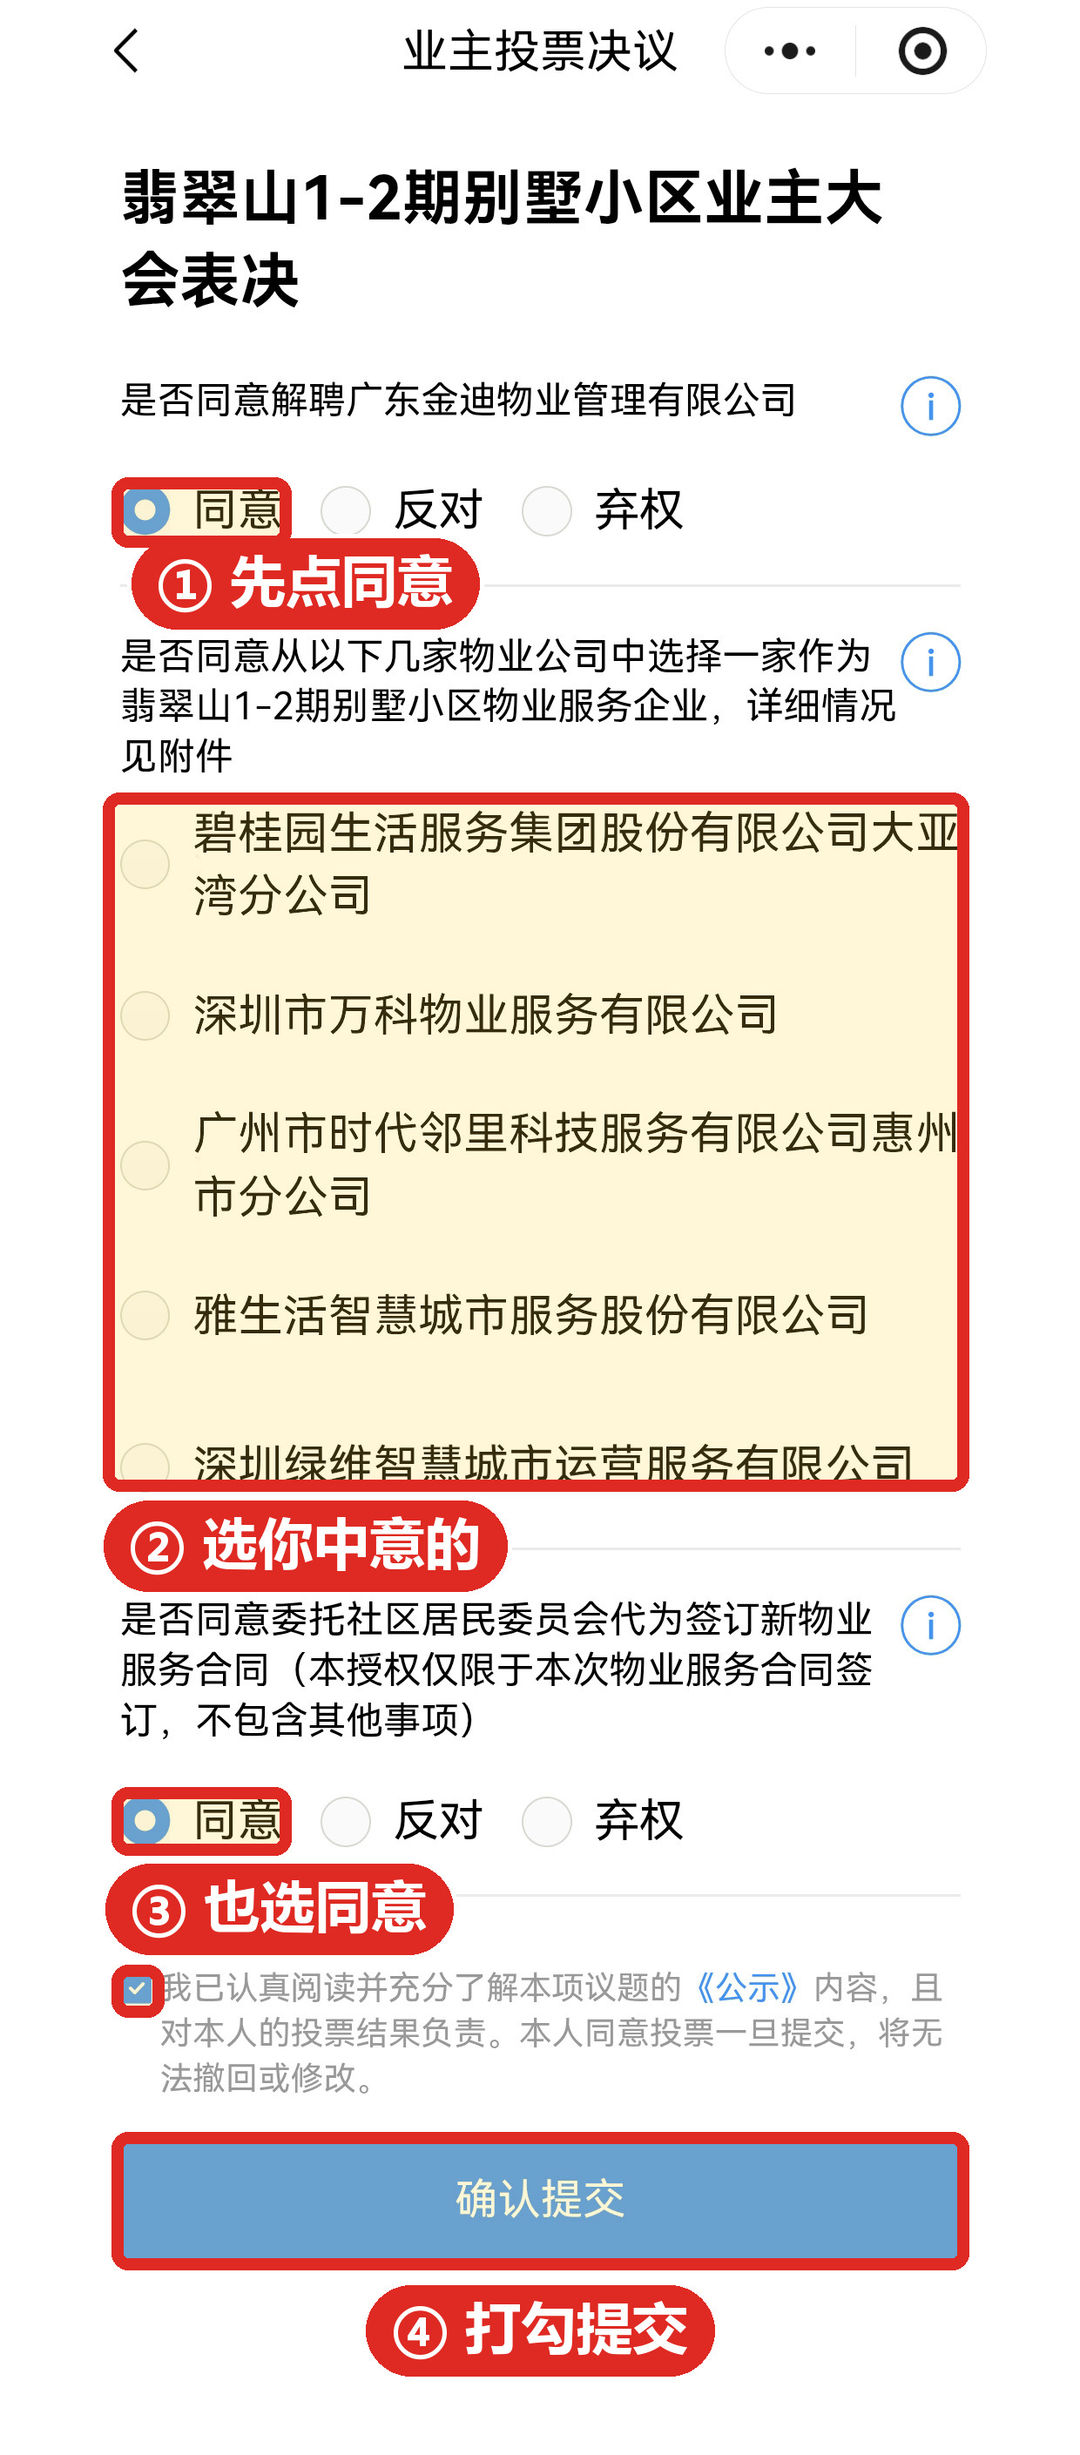
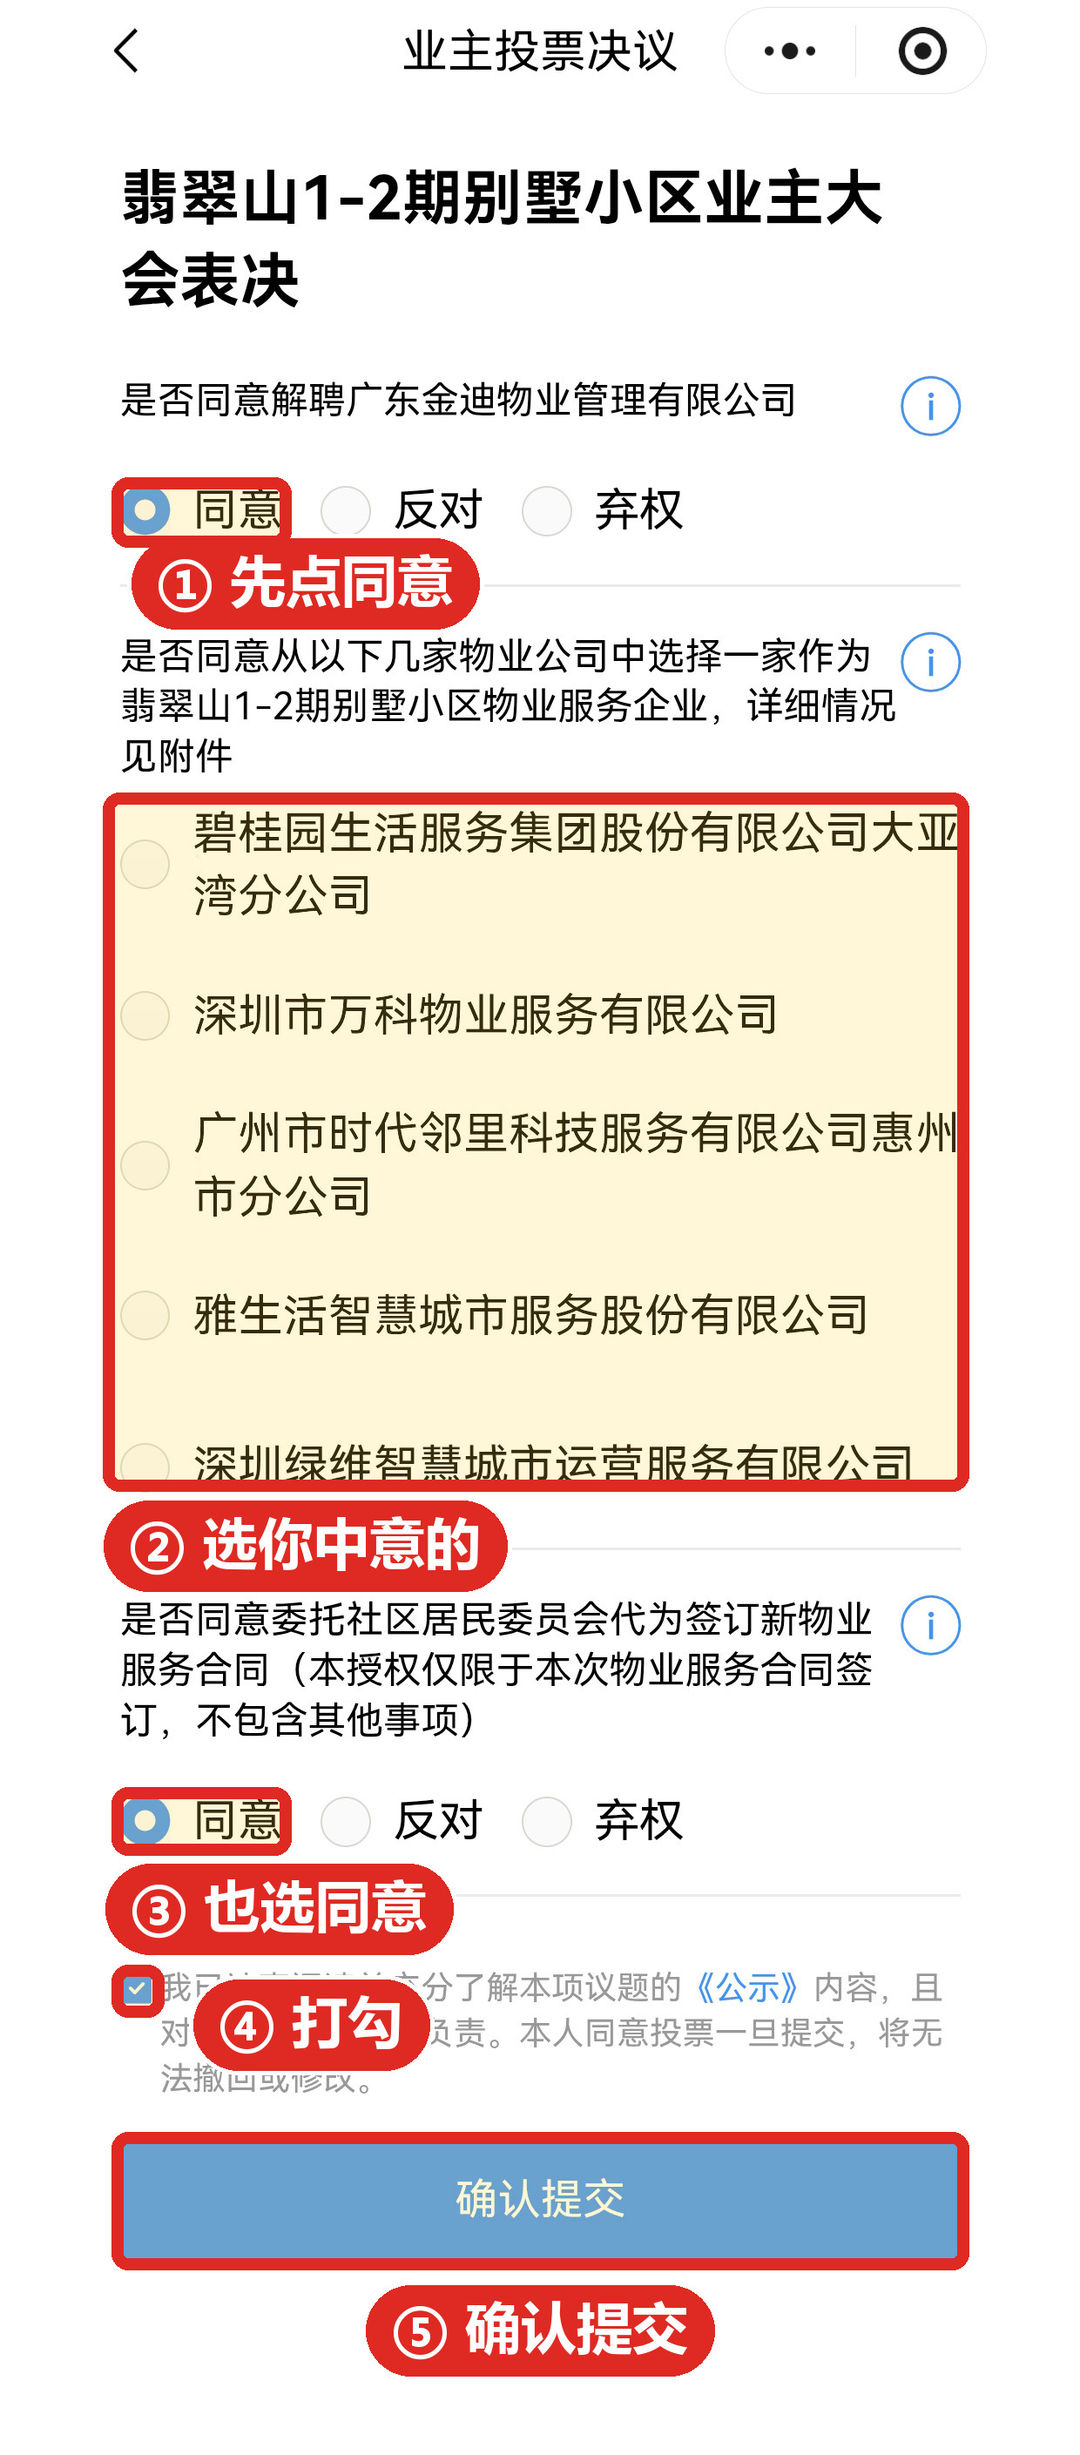
Guide v1.24: split the last two labels - tick beside the checkbox, submit under the button

Changed region(s): [[0.1833, 0.8049, 0.3972, 0.8668], [0.4278, 0.9287, 0.55, 0.9597], [0.3667, 0.9287, 0.3972, 0.9597]]

diff --git a/guide/index.html b/guide/index.html
@@ -926,12 +926,12 @@
       </div>
       <div class="shot-box">
         <picture>
-          <source type="image/webp" srcset="13_业主投票决议页_第一题先选同意.webp?v=3">
-          <img class="shot" loading="lazy" decoding="async" src="13_业主投票决议页_第一题先选同意.jpg?v=3" alt="投票表单：四个红框依次标出第一题选「同意」、第二题挑一家新物业、第三题也选「同意」，以及勾选承诺后点「确认提交」" width="1080" height="2455">
+          <source type="image/webp" srcset="13_业主投票决议页_第一题先选同意.webp?v=4">
+          <img class="shot" loading="lazy" decoding="async" src="13_业主投票决议页_第一题先选同意.jpg?v=4" alt="投票表单：五个红框依次标出第一题选「同意」、第二题挑一家新物业、第三题也选「同意」、勾选「我已认真阅读」、以及点「确认提交」" width="1080" height="2455">
         </picture>
         <span class="zoom-hint">点击放大</span>
       </div>
-      <p class="shot-note">四个红框按编号依次做：① 先选同意 ② 挑一家新物业 ③ 也选同意 ④ 打勾再提交</p>
+      <p class="shot-note">五个红框按编号依次做：① 先选同意 ② 挑一家新物业 ③ 也选同意 ④ 打勾 ⑤ 提交</p>
       <div class="notice notice--brick">
         <strong>务必先选第一题的「同意」</strong>
         只有先选了「同意」解聘，第二题（选新的物业服务企业）才有选择的机会。往下还有三件事：第三题也选「同意」；勾选「我已认真阅读…」；最后点「确认提交」。
@@ -1033,7 +1033,7 @@
 
   <footer class="foot">
     <p>
-      本页由小区业主自行整理，仅在本小区业主范围内传阅，<b>不是政府或粤省事官方发布的文件</b>。截图采集于 <b>2026 年 9 月 14 日至 15 日</b>（指引版本 <b>v1.23</b>），实际界面以粤省事当前显示为准。截图中的个人身份信息已作遮蔽处理，<b>红色方框与箭头为后加的操作指引标记</b>，非平台原有界面元素。
+      本页由小区业主自行整理，仅在本小区业主范围内传阅，<b>不是政府或粤省事官方发布的文件</b>。截图采集于 <b>2026 年 9 月 14 日至 15 日</b>（指引版本 <b>v1.24</b>），实际界面以粤省事当前显示为准。截图中的个人身份信息已作遮蔽处理，<b>红色方框与箭头为后加的操作指引标记</b>，非平台原有界面元素。
     </p>
   </footer>
 
